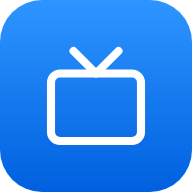
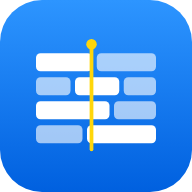
Grilla: nombre de la app, ícono de grilla, "Todos" por defecto y ayuda
- La app pasa a llamarse "Grilla — Guía de canales" (título, manifest, iOS).
- Ícono nuevo: una grilla de programación (filas de programas de distinta duración y una
  línea amarilla de "ahora") en vez del televisor.
- El filtro por defecto es "Todos" y va primero; la clave de localStorage cambia a v2 para
  que se vea así al abrir aunque antes hubiera quedado guardado "A revisar".
- Sección de ayuda (botón ? en el encabezado; se abre sola la primera vez en cada
  dispositivo) con preguntas frecuentes: cambiar el EPG, calidades, renombrar/mover,
  ocultar, cuándo se aplican los cambios, deshacer, filtros, programación vencida, token
  e instalación como app.
- Cache del service worker a v2 (cambian íconos y archivos).

Claude-Session: https://claude.ai/code/session_013FLdVNYYkfGHsSKMjYyGXC

Changed region(s): [[0.1875, 0.1875, 0.8125, 0.8125]]

diff --git a/docs/index.html b/docs/index.html
@@ -5,13 +5,13 @@
 <meta name="viewport" content="width=device-width, initial-scale=1, viewport-fit=cover">
 <meta name="theme-color" content="#f2f2f7" media="(prefers-color-scheme: light)">
 <meta name="theme-color" content="#000000" media="(prefers-color-scheme: dark)">
-<title>Corrección de EPG</title>
+<title>Grilla — Guía de canales</title>
 <link rel="manifest" href="manifest.webmanifest">
 <link rel="icon" href="img/icon.svg" type="image/svg+xml">
 <link rel="apple-touch-icon" href="img/apple-touch-icon.png">
 <meta name="apple-mobile-web-app-capable" content="yes">
 <meta name="mobile-web-app-capable" content="yes">
-<meta name="apple-mobile-web-app-title" content="EPG">
+<meta name="apple-mobile-web-app-title" content="Grilla">
 <meta name="apple-mobile-web-app-status-bar-style" content="black-translucent">
 <link rel="stylesheet" href="app.css">
 <script src="icons.js" defer></script>
@@ -20,8 +20,11 @@
 <body>
 
 <header class="app-header">
-  <h1>Corrección de EPG</h1>
-  <p>Cada cambio se guarda al instante y vale para todos los perfiles. Se aplica a la playlist al correr el workflow.</p>
+  <div class="title-row">
+    <h1>Grilla</h1>
+    <button class="icon-btn" id="helpBtn" title="Ayuda" aria-label="Ayuda"><span data-icon="circle-help"></span></button>
+  </div>
+  <p>Corregí el EPG, los nombres, las categorías y la visibilidad de tus canales. Cada cambio vale para todos los perfiles y se aplica al correr el workflow.</p>
 </header>
 
 <div class="toolbar">
@@ -35,12 +38,12 @@
     <button class="icon-btn" id="settingsBtn" title="Token de GitHub" aria-label="Token de GitHub"><span data-icon="key-round"></span></button>
   </div>
   <nav class="segmented" id="filterTabs" aria-label="Filtros">
+    <button data-filter="todos" data-label="Todos">Todos</button>
     <button data-filter="revisar" data-label="A revisar">A revisar</button>
     <button data-filter="sin-epg" data-label="Sin EPG">Sin EPG</button>
     <button data-filter="override" data-label="EPG manual">EPG manual</button>
     <button data-filter="editados" data-label="Editados">Editados</button>
     <button data-filter="ocultos" data-label="Ocultos">Ocultos</button>
-    <button data-filter="todos" data-label="Todos">Todos</button>
   </nav>
 </div>
 
@@ -70,6 +73,67 @@
       <button class="btn btn-primary" value="save">Guardar</button>
     </div>
   </form>
+</dialog>
+
+<dialog class="sheet help-sheet" id="helpDialog" aria-labelledby="helpTitle">
+  <div class="sheet-body">
+    <div class="title-row">
+      <h2 id="helpTitle">Cómo usar Grilla</h2>
+      <form method="dialog"><button class="icon-btn" aria-label="Cerrar"><span data-icon="x"></span></button></form>
+    </div>
+    <p>Grilla muestra los canales de tu playlist con la guía (EPG) que tiene asignada cada uno y lo que está dando ahora, para que corrijas lo que esté mal.</p>
+
+    <details open>
+      <summary>¿Cómo cambio el EPG de un canal?<span data-icon="chevron-down"></span></summary>
+      <p>Tocá <b>Cambiar EPG</b> en la tarjeta. Arriba aparecen las <b>alternativas</b> que ya se calcularon; abajo podés <b>buscar en todo el EPG</b> por nombre del canal o por el programa que está dando ahora: si en el canal ves un partido, buscá el partido. Tocá una opción y queda elegida.</p>
+      <p>Si ninguna guía sirve, <b>Dejar sin EPG</b> lo deja sin guía a propósito (mejor sin EPG que con uno equivocado).</p>
+    </details>
+
+    <details>
+      <summary>¿Qué significan Bien, Dudoso y Débil?<span data-icon="chevron-down"></span></summary>
+      <p>Qué tan seguro está el emparejamiento automático entre el canal y su guía: <b>Bien</b> casi seguro es correcto, <b>Dudoso</b> conviene revisarlo, <b>Débil</b> probablemente está mal. <b>Manual</b> es un EPG que elegiste vos y <b>Sin EPG</b> un canal sin guía.</p>
+    </details>
+
+    <details>
+      <summary>¿Cómo renombro un canal o lo cambio de categoría?<span data-icon="chevron-down"></span></summary>
+      <p>Tocá <b>Más</b> en la tarjeta: ahí está el nombre que se ve en la playlist y la categoría. El EPG no cambia al renombrar o mover. Para volver atrás, <b>Nombre original</b> o elegí la categoría marcada como <i>(original)</i>.</p>
+    </details>
+
+    <details>
+      <summary>¿Cómo oculto un canal?<span data-icon="chevron-down"></span></summary>
+      <p>Con el <b>ojo</b> de la tarjeta: abierto es visible, tachado es oculto. Un canal oculto sale de la playlist pero sigue acá, en el filtro <b>Ocultos</b>, para volver a mostrarlo.</p>
+    </details>
+
+    <details>
+      <summary>¿Cuándo se ven los cambios en la playlist?<span data-icon="chevron-down"></span></summary>
+      <p>Cada cambio se guarda al instante, pero la playlist se regenera cuando corre el <b>workflow</b>: todos los días solo, o cuando tocás el botón de <b>play</b>. Si hay cambios sin aplicar, el botón muestra cuántos. Tarda unos 8 minutos y te aviso cuando termina.</p>
+    </details>
+
+    <details>
+      <summary>Me equivoqué, ¿cómo deshago?<span data-icon="chevron-down"></span></summary>
+      <p>Después de cada cambio aparece un aviso abajo con <b>Deshacer</b> por unos segundos. Más tarde, cada cambio se revierte desde el mismo lugar: <b>Más → Volver al EPG automático</b>, <b>Nombre original</b>, la categoría <i>(original)</i> o el ojo.</p>
+    </details>
+
+    <details>
+      <summary>¿Qué muestra cada filtro?<span data-icon="chevron-down"></span></summary>
+      <p><b>Todos</b>: toda la playlist. <b>A revisar</b>: canales con EPG dudoso o sin EPG (sin contar eventos sueltos de "General" ni los 24/7). <b>Sin EPG</b>: canales sin guía. <b>EPG manual</b>: los que elegiste vos. <b>Editados</b>: renombrados, movidos u ocultos. <b>Ocultos</b>: los que sacaste de la playlist.</p>
+    </details>
+
+    <details>
+      <summary>Dice "Sin programación para este horario"<span data-icon="chevron-down"></span></summary>
+      <p>Esa guía no tiene nada cargado para esta hora. Si pasa en casi todos los canales, la programación publicada venció (cubre unas 30 horas desde la última corrida): corré el workflow y después tocá <b>actualizar</b> (las flechas en círculo).</p>
+    </details>
+
+    <details>
+      <summary>¿Qué es el token y dónde lo consigo?<span data-icon="chevron-down"></span></summary>
+      <p>Es el permiso para guardar cambios en GitHub. Creá un <a href="https://github.com/settings/personal-access-tokens/new" target="_blank" rel="noopener">fine-grained token</a> solo para <code>luispied/epg-merger</code> con <b>Contents</b> y <b>Actions</b> en <i>Read and write</i>, y pegalo con el botón de la <b>llave</b>. Queda guardado solo en este dispositivo.</p>
+    </details>
+
+    <details>
+      <summary>¿Cómo la instalo como app?<span data-icon="chevron-down"></span></summary>
+      <p><b>iPhone:</b> en Safari, Compartir → <i>Agregar a inicio</i>. <b>Android:</b> en Chrome, menú → <i>Instalar app</i>. Abre a pantalla completa, sin la barra del navegador. En iPhone la app instalada guarda sus datos aparte: pegá el token una vez más.</p>
+    </details>
+  </div>
 </dialog>
 
 <dialog class="sheet" id="confirmDialog">

diff --git a/docs/app.js b/docs/app.js
@@ -19,7 +19,10 @@
   const MAP_PATH = 'xtream_channel_map.json';
   const WORKFLOW_FILE = 'merge-epgs.yml';
   const TOKEN_KEY = 'epg_admin_pat';
-  const FILTER_KEY = 'epg_ui_filter';
+  // v2: el filtro por defecto pasó a "Todos"; la clave nueva hace que se vea así al abrir aunque
+  // antes hubiera quedado guardado "A revisar".
+  const FILTER_KEY = 'epg_ui_filter_v2';
+  const HELP_SEEN_KEY = 'epg_ui_help_seen';
 
   const MIN_SCORE = 0.45;
   const PAGE_SIZE = 60;
@@ -65,7 +68,7 @@
   let filtered = [];
   let rendered = 0;
   let searchTerm = '';
-  let activeFilter = storageGet(FILTER_KEY) || 'revisar';
+  let activeFilter = storageGet(FILTER_KEY) || 'todos';
   let pendingChanges = 0;       // commits a MAP_PATH desde la última corrida del workflow
   // raw.githubusercontent.com cachea unos minutos por URL: este sufijo cambia al actualizar datos.
   let dataNonce = Date.now();
@@ -977,6 +980,7 @@
   });
 
   loadMoreBtn.addEventListener('click', renderMore);
+  $('#helpBtn').addEventListener('click', () => $('#helpDialog').showModal());
   $('#refreshDataBtn').addEventListener('click', refreshData);
   runBtn.addEventListener('click', runWorkflow);
   $('#settingsBtn').addEventListener('click', openTokenDialog);
@@ -996,6 +1000,11 @@
       if (!names.length) throw new Error('Todavía no hay ningún match_report publicado: corré el workflow una vez.');
       await loadProfile(names[0]);
       pollWorkflow();
+      // La primera vez en este dispositivo se muestra la ayuda.
+      if (!storageGet(HELP_SEEN_KEY)) {
+        storageSet(HELP_SEEN_KEY, '1');
+        $('#helpDialog').showModal();
+      }
     } catch (e) {
       cardsEl.innerHTML = `<div class="empty">${icon('triangle-alert', 'lg')}<strong>No se pudieron cargar los datos</strong>${esc(errMsg(e))}</div>`;
       toast(errMsg(e), { kind: 'error' });

diff --git a/docs/app.css b/docs/app.css
@@ -74,6 +74,7 @@ body::before {
 
 /* ------------------------------------------------------------------ encabezado */
 .app-header { padding: calc(20px + env(safe-area-inset-top, 0px)) var(--gutter) 6px; }
+.title-row { display: flex; align-items: center; justify-content: space-between; gap: 12px; }
 .app-header h1 { margin: 0; font-size: 30px; line-height: 1.15; font-weight: 700; letter-spacing: -.02em; }
 .app-header p { margin: 4px 0 0; color: var(--muted); font-size: 13.5px; }
 
@@ -305,3 +306,20 @@ dialog.sheet::backdrop { background: rgba(0, 0, 0, .35); animation: fade-in .2s 
   .wide { display: none; }
   #runWorkflowBtn { padding: 0 12px; gap: 4px; }
 }
+
+/* ------------------------------------------------------------------ ayuda */
+.help-sheet { max-height: 88vh; }
+.help-sheet .sheet-body { overflow-y: auto; max-height: 88vh; }
+.help-sheet .title-row { margin-bottom: 6px; }
+.help-sheet h2 { margin: 0; }
+.help-sheet details { background: var(--surface-2); border-radius: var(--radius-sm); margin-top: 8px; }
+.help-sheet summary {
+  list-style: none; cursor: pointer; padding: 12px 14px; font-weight: 600; font-size: 15px;
+  display: flex; align-items: center; justify-content: space-between; gap: 10px;
+}
+.help-sheet summary::-webkit-details-marker { display: none; }
+.help-sheet summary .icon { color: var(--muted); transition: transform .2s ease; }
+.help-sheet details[open] summary .icon { transform: rotate(180deg); }
+.help-sheet details p { margin: 0; padding: 0 14px 12px; color: var(--text); font-size: 14.5px; }
+.help-sheet details[open] p { animation: slide-down .2s ease both; }
+@media (max-width: 600px) { .help-sheet { max-height: 92vh; } .help-sheet .sheet-body { max-height: 92vh; } }

diff --git a/docs/icons.js b/docs/icons.js
@@ -74,4 +74,6 @@ window.ICONS = {
   "clock": "<circle cx=\"12\" cy=\"12\" r=\"10\" /> <path d=\"M12 6v6l4 2\" />",
   "inbox": "<polyline points=\"22 12 16 12 14 15 10 15 8 12 2 12\" /> <path d=\"M5.45 5.11 2 12v6a2 2 0 0 0 2 2h16a2 2 0 0 0 2-2v-6l-3.45-6.89A2 2 0 0 0 16.76 4H7.24a2 2 0 0 0-1.79 1.11z\" />",
   "list-filter": "<path d=\"M2 5h20\" /> <path d=\"M6 12h12\" /> <path d=\"M9 19h6\" />",
+  "circle-help": "<circle cx=\"12\" cy=\"12\" r=\"10\" /> <path d=\"M9.09 9a3 3 0 0 1 5.83 1c0 2-3 3-3 3\" /> <path d=\"M12 17h.01\" />",
+  "chevron-down": "<path d=\"m6 9 6 6 6-6\" />",
 };

diff --git a/docs/sw.js b/docs/sw.js
@@ -3,7 +3,7 @@
    (network-first): así un cambio publicado en GitHub Pages se ve en la próxima apertura, y la
    copia guardada se usa solo sin conexión. Los datos (API de GitHub, raw.githubusercontent.com)
    no pasan por acá: son de otro origen y siempre van a la red. */
-const CACHE = 'epg-ui-v1';
+const CACHE = 'epg-ui-v2';
 const SHELL = [
   './', './index.html', './app.css', './app.js', './icons.js', './manifest.webmanifest',
   './img/icon.svg', './img/icon-192.png', './img/icon-512.png', './img/apple-touch-icon.png',

diff --git a/README.md b/README.md
@@ -105,6 +105,10 @@ mejor alternativa: mejor sin EPG que con uno equivocado.
 
 ### Interfaz de corrección (`docs/`)
 
+**Grilla** (https://luispied.github.io/epg-merger/) es la interfaz para corregir la playlist
+desde el celular o la compu. Tiene una sección de ayuda (botón **?** arriba, y se abre sola la
+primera vez) que explica cómo usarla.
+
 `docs/` (`index.html` + `app.css` + `app.js` + `icons.js`), servida por GitHub Pages, lista los canales con el EPG que se les asignó
 (como todos los perfiles comparten canales y cambios, muestra siempre el primero) (`match_report-<perfil>.json`) — salvo los de la sección **PPV EVENTS**, que se
 excluyen: son transmisiones puntuales que ningún EPG público cubre, así que nunca van a
